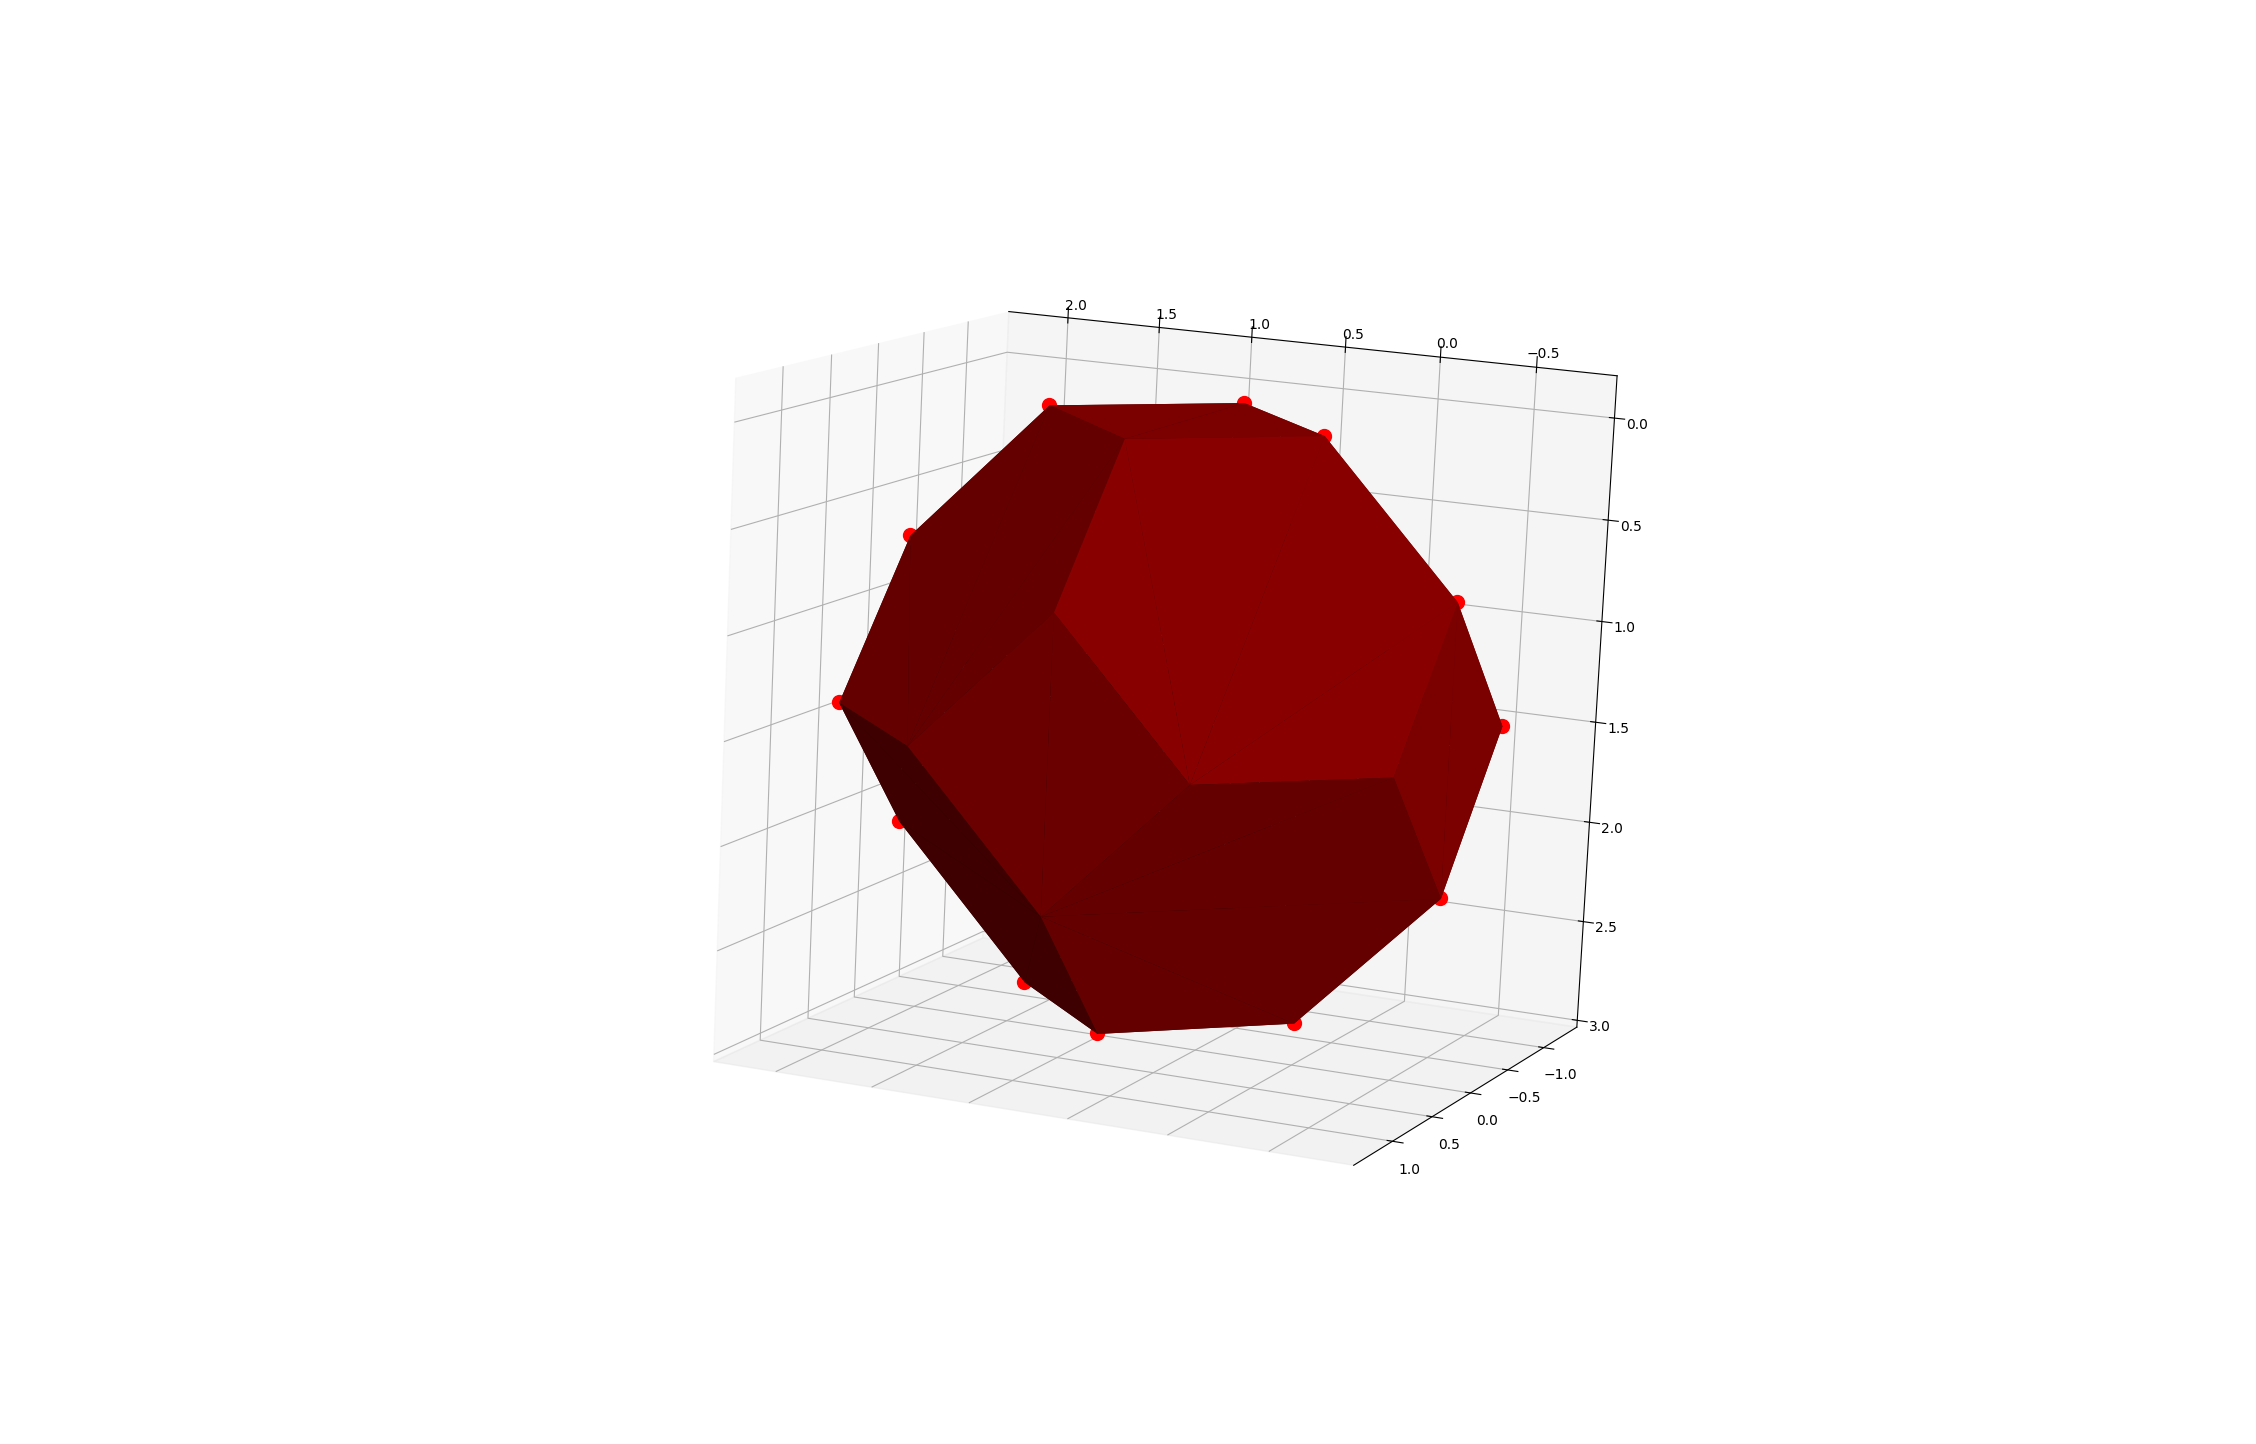
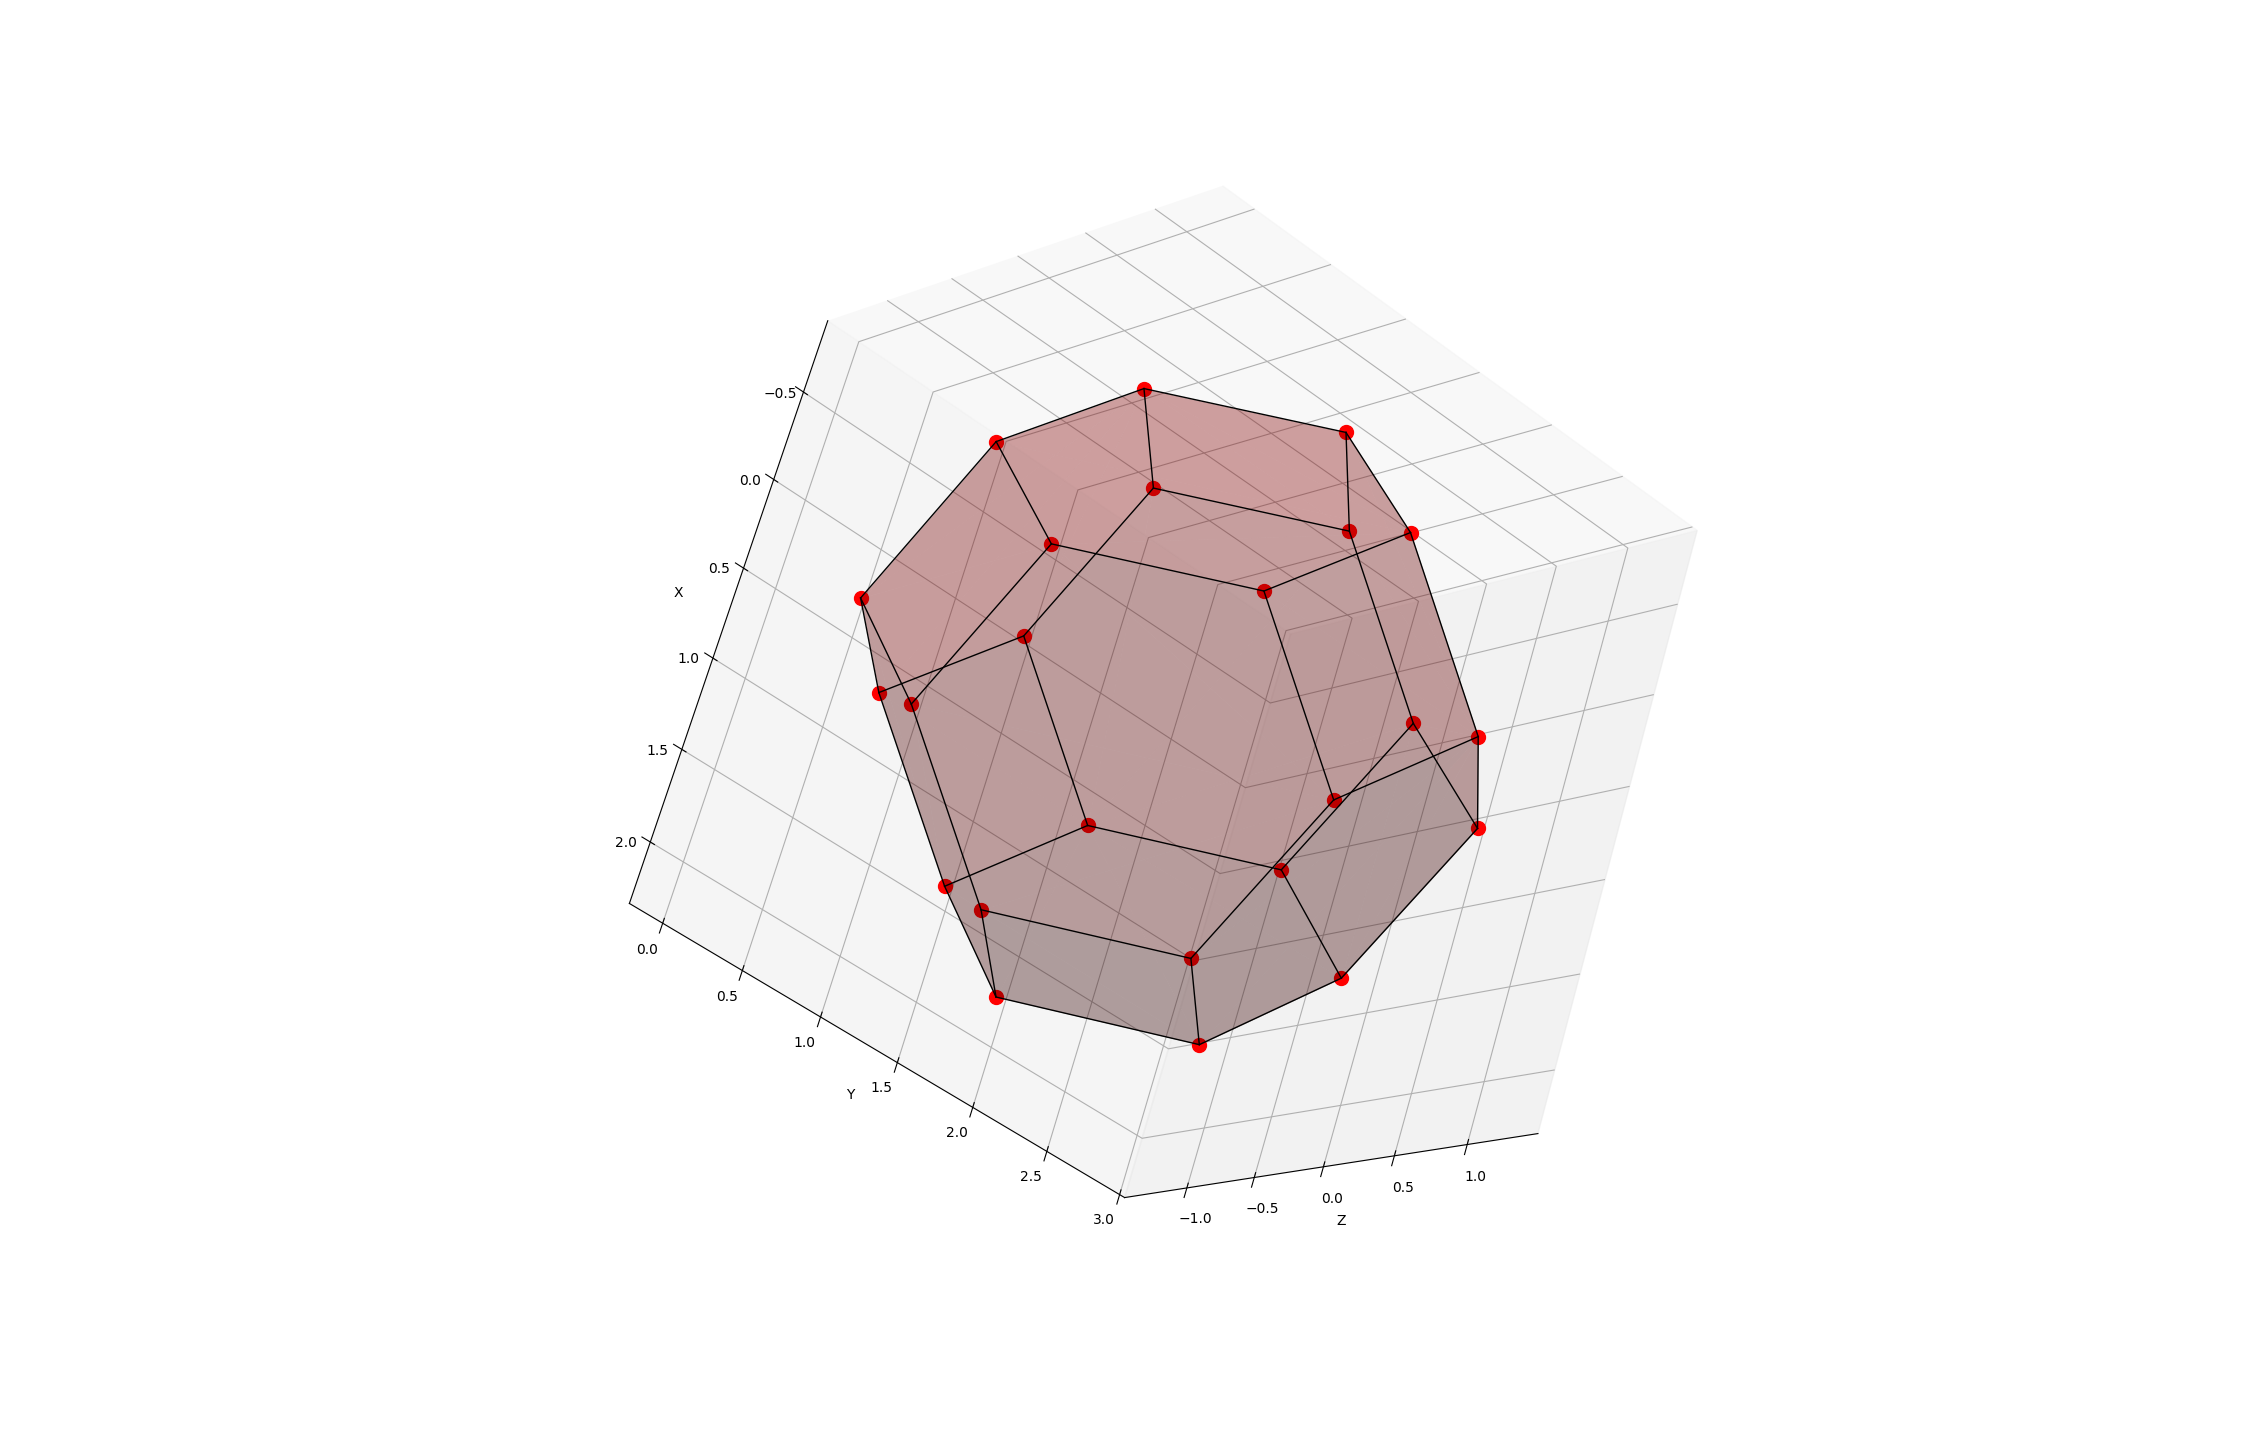
Changed wulff example

Changed region(s): [[0.3413, 0.2181, 0.6826, 0.8102], [0.3413, 0.2493, 0.3723, 0.3116], [0.3413, 0.3428, 0.3723, 0.374]]

diff --git a/objects.py b/objects.py
@@ -2,6 +2,7 @@ from abc import ABC, abstractmethod
 
 import matplotlib.pyplot as plt
 import numpy as np
+import numpy.linalg as la
 
 ax = None
 
@@ -9,7 +10,8 @@ ax = None
 class Object(ABC):
     def __init__(self):
         self.color = "black"
-        self.alpha = 1
+        self.always_on_top = False
+        self.opacity = 1
         self.style = ''
 
     @abstractmethod
@@ -58,10 +60,10 @@ class Point(Object):
 
 
 class Line(Object):
-
     def __init__(self, a, b):
         super().__init__()
-        self.style = '--'
+        self.style = '-'
+        self.width = 1
         self.a = a
         self.b = b
 
@@ -76,7 +78,16 @@ class Line(Object):
             np.add(vector, self.b))
 
     def plot(self):
-        plt.plot(*np.transpose(np.array([self.a, self.b])), marker='', c=self.color, linestyle=self.style)
+        kwargs = {
+            'marker': '',
+            'c': self.color,
+            'linestyle': self.style,
+            'linewidth': self.width
+        }
+        if self.always_on_top:
+            kwargs['zorder'] = 1000
+
+        plt.plot(*np.transpose(np.array([self.a, self.b])), **kwargs)
 
     def predicate(self, p) -> bool:
         return p(self.a) and p(self.b)
@@ -103,13 +114,52 @@ class Triangle(Object):
             np.add(vector, self.c))
 
     def plot(self):
+        kwargs = {
+            'color': self.color,
+            'edgecolor': self.color,
+            'linewidth': 0,
+            'antialiased': True,
+            'shade': True,
+            'alpha': self.opacity
+        }
+        if self.always_on_top:
+            kwargs['zorder'] = 10000
+
         x, y, z = np.transpose(np.array([self.a, self.b, self.c]))
         ax.plot_trisurf(
             x, y, [[0, 1, 2]], z,
-            color=self.color, edgecolor=self.color, linewidth=0, antialiased=True, shade=True, alpha=self.alpha)
+            **kwargs)
 
     def predicate(self, p) -> bool:
         return p(self.a) and p(self.b) and p(self.c)
+
+
+class Sphere(Object):
+    def __init__(self, center, radius: float, detail: int = 100):
+        super().__init__()
+        self.center = center
+        self.radius = radius
+        self.detail = detail
+
+    def __mul__(self, matrix):
+        return self.__class__(np.dot(matrix, self.center), la.det(matrix) * self.radius, self.detail)
+
+    def __add__(self, vector):
+        return self.__class__(np.add(self.center, vector), self.radius, self.detail)
+
+    def plot(self):
+        u = np.linspace(0, 2 * np.pi, self.detail)
+        v = np.linspace(-1, 1, self.detail)
+        offset = np.repeat(self.center[0], self.detail, self.detail)
+        print(np.shape(np.outer(np.cos(u), np.sin(v))), np.shape(offset))
+        x = self.radius * np.outer(np.cos(u), np.sin(v)) + offset
+        y = self.radius * np.outer(np.sin(u), np.sin(v)) + offset
+        z = self.radius * np.outer(np.ones(self.detail), np.cos(v)) + offset
+        ax.plot_surface(x, y, z, alpha=self.opacity)
+        # Point(self.center).plot()
+
+    def predicate(self, p) -> bool:
+        return p(self.center)
 
 
 class ObjectCollection(Object):
@@ -168,6 +218,7 @@ class ObjectCollection(Object):
         for o in self.objs:
             if isinstance(o, _type):
                 fun(o)
+        return self
 
     def get_points(self):
         points = set()

diff --git a/utils.py b/utils.py
@@ -98,6 +98,18 @@ def convex_hull(points: ObjectCollection):
     return points @ ObjectCollection(triangles)
 
 
+def vector_length(vector):
+    return np.dot(vector, vector)
+
+
+def circum_sphere(points: ObjectCollection, detail: int = 100):
+    coords = list(map(lambda p: p.pos, points.get_points()))
+    center = sum(coords) * (1 / len(coords))
+    radius = max(vector_length(v - center) for v in coords)
+
+    return points @ ObjectCollection([Sphere(center, radius, detail=detail)])
+
+
 def constant(fun):
     """
     A utility decorator, to make code faster, does not change behaviour
@@ -110,6 +122,8 @@ def setter(name, value):
     """
     Returns a function that takes an object and sets the 'name' field to 'value'
     """
+
     def s(x):
         x.__setattr__(name, value)
+
     return s

diff --git a/README.md b/README.md
@@ -8,7 +8,9 @@ These visualisations are created with matplotlib which handles 3d rather simplis
 ![Wulff crystal with side-length 1 in FCC](examples/FCC_Wulff1.png)
 This was plotted with
 ```python
-fcc_wulff().plot()
+(auto_lines(fcc_wulff(opacity=0.2), 1)
+ .foreach(Line, setter('always_on_top', True))
+ .plot())
 ```
 
 #### FCC Lattice
